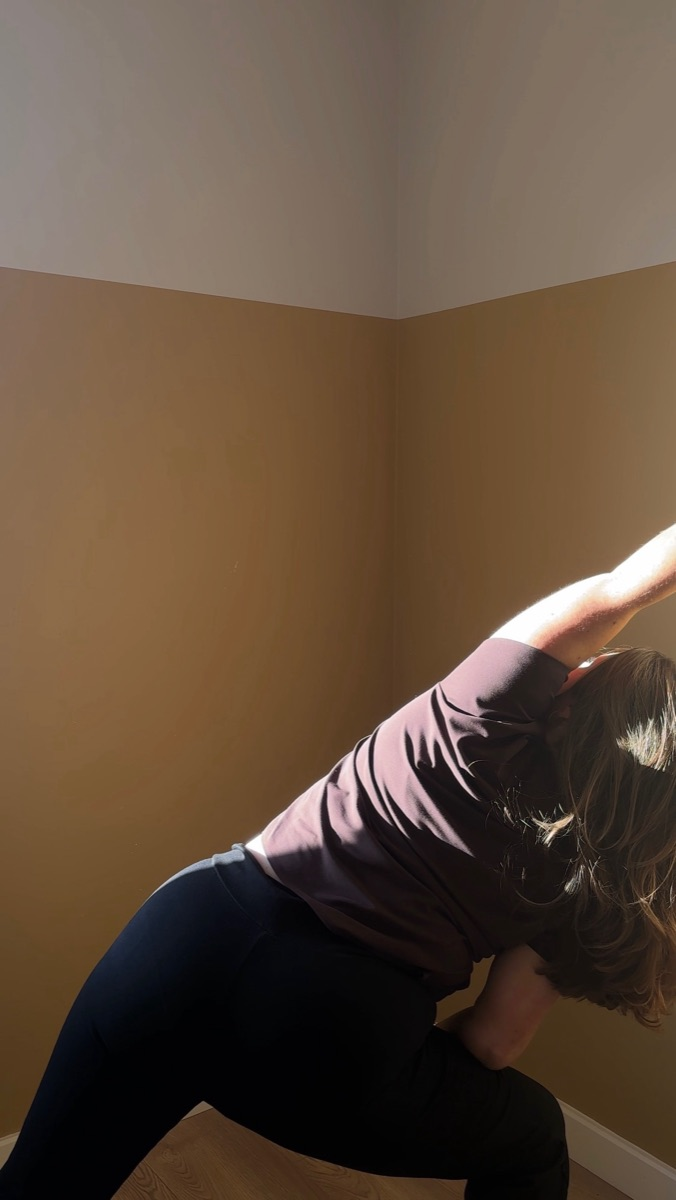
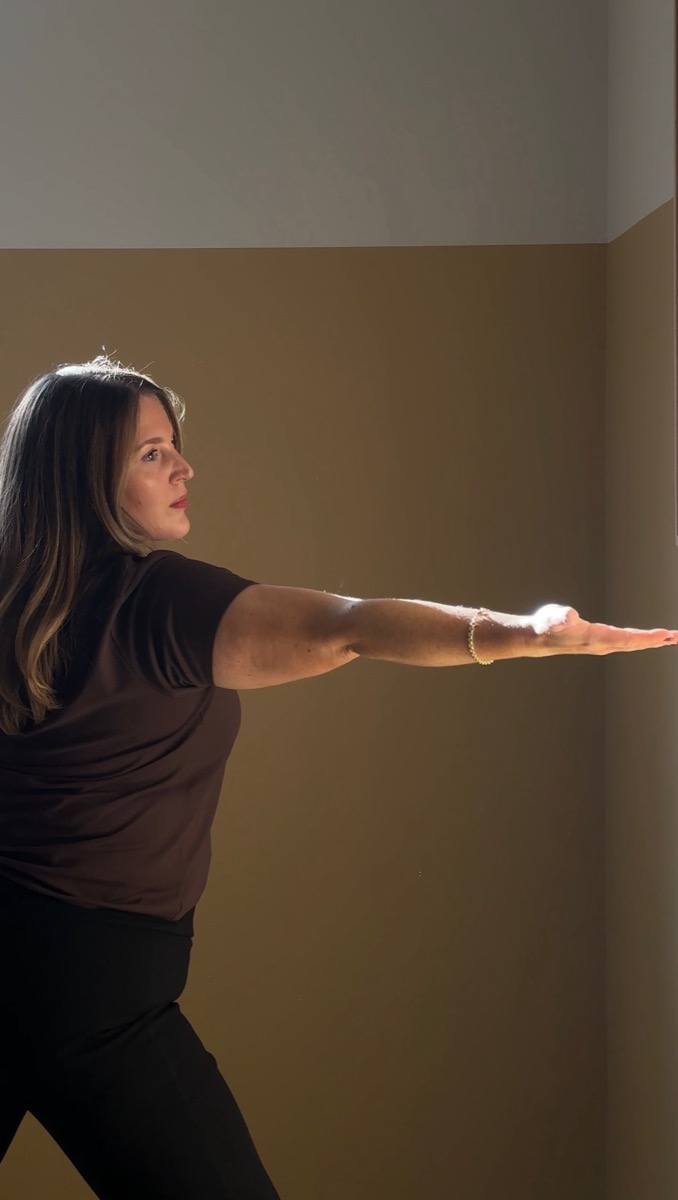
Refresh visual design: new fonts, mustard colour palette, fixed photo and video issues
- Swap awkward Slow Flow photo for a calmer, matching shot
- Even out class card copy and remove repeated "everything provided" phrasing
- Fix stretched mat-rollout video; add blurred-edge treatment to fill the frame
- Add Fraunces/Inter fonts and a warm mustard accent colour pulled from the photos
- Add testimonial carousel dots, favicon, and social preview images
- Improve nav link contrast for readability

diff --git a/css/styles.css b/css/styles.css
@@ -5,10 +5,12 @@
 }
 
 :root {
-  --ink: #2c2c2a;
-  --paper: #faf8f5;
+  --ink: #2e2519;
+  --paper: #faf7f2;
   --neutral: #cdbfae;
   --neutral-light: #f1ebe3;
+  --mustard: #8a6a35;
+  --mustard-dark: #6e5328;
   --max-width: 1080px;
 }
 
@@ -19,18 +21,22 @@ html {
 body {
   background-color: var(--paper);
   color: var(--ink);
-  font-family: -apple-system, BlinkMacSystemFont, 'Segoe UI', sans-serif;
+  font-family: 'Inter', -apple-system, BlinkMacSystemFont, 'Segoe UI', sans-serif;
   font-size: 1rem;
   line-height: 1.6;
 }
 
 h1, h2, h3 {
-  font-family: Georgia, 'Times New Roman', serif;
-  font-weight: normal;
+  font-family: 'Fraunces', Georgia, 'Times New Roman', serif;
+  font-weight: 500;
   letter-spacing: 0.01em;
 }
 
 a {
+  color: var(--mustard-dark);
+}
+
+a:hover {
   color: var(--ink);
 }
 
@@ -60,7 +66,7 @@ img {
 }
 
 .site-header .logo {
-  font-family: Georgia, 'Times New Roman', serif;
+  font-family: 'Fraunces', Georgia, 'Times New Roman', serif;
   font-size: 1.1rem;
   letter-spacing: 0.04em;
   text-decoration: none;
@@ -75,7 +81,7 @@ img {
   color: var(--ink);
   border-bottom: 1px solid currentColor;
   padding-bottom: 2px;
-  opacity: 0.6;
+  opacity: 0.75;
   transition: opacity 0.2s ease;
 }
 
@@ -169,12 +175,14 @@ img {
 }
 
 .btn-primary {
-  background-color: var(--ink);
+  background-color: var(--mustard-dark);
   color: var(--paper);
+  border-color: var(--mustard-dark);
 }
 
 .btn-primary:hover {
-  background-color: #4a4a46;
+  background-color: var(--ink);
+  border-color: var(--ink);
 }
 
 .btn-secondary {
@@ -252,18 +260,43 @@ section h2 {
 }
 
 .moment-media {
+  position: relative;
   width: 100%;
-  max-height: 70vh;
+  height: 70vh;
   overflow: hidden;
   display: flex;
   justify-content: center;
-  background-color: var(--ink);
+  background-color: var(--mustard-dark);
 }
 
-.moment-media video {
+.moment-media-bg {
+  position: absolute;
+  inset: 0;
   width: 100%;
-  max-height: 70vh;
+  height: 100%;
   object-fit: cover;
+  filter: blur(40px) brightness(0.85) saturate(1.2);
+  transform: scale(1.15);
+}
+
+.moment-media-fg {
+  position: relative;
+  height: 100%;
+  width: auto;
+  max-width: 100%;
+  object-fit: cover;
+  box-shadow: 0 0 60px rgba(0, 0, 0, 0.25);
+}
+
+@media (max-width: 600px) {
+  .moment-media-fg {
+    width: 100%;
+    height: 100%;
+  }
+
+  .moment-media-bg {
+    display: none;
+  }
 }
 
 .moment-caption {
@@ -272,7 +305,7 @@ section h2 {
 }
 
 .moment-caption p {
-  font-family: Georgia, 'Times New Roman', serif;
+  font-family: 'Fraunces', Georgia, 'Times New Roman', serif;
   font-size: 1.2rem;
   opacity: 0.8;
 }
@@ -318,6 +351,10 @@ section h2 {
   background-color: var(--neutral-light);
 }
 
+.testimonials h2 {
+  margin-bottom: 2rem;
+}
+
 .testimonial-track {
   display: flex;
   gap: 2rem;
@@ -361,6 +398,29 @@ section h2 {
   .testimonial {
     flex: 0 0 calc(50% - 1rem);
   }
+}
+
+.testimonial-dots {
+  display: flex;
+  justify-content: center;
+  gap: 0.6rem;
+  margin-top: 1.5rem;
+}
+
+.testimonial-dot {
+  width: 8px;
+  height: 8px;
+  padding: 0;
+  border: none;
+  border-radius: 50%;
+  background-color: var(--neutral);
+  cursor: pointer;
+  transition: background-color 0.2s ease, transform 0.2s ease;
+}
+
+.testimonial-dot.is-active {
+  background-color: var(--mustard-dark);
+  transform: scale(1.25);
 }
 
 /* Corporate-specific */

diff --git a/js/main.js b/js/main.js
@@ -1,0 +1,42 @@
+// Testimonial carousel dots
+(function () {
+  var track = document.querySelector('.testimonial-track');
+  var dots = document.querySelectorAll('.testimonial-dot');
+  if (!track || !dots.length) return;
+
+  dots.forEach(function (dot, i) {
+    dot.addEventListener('click', function () {
+      var card = track.children[i];
+      if (card) {
+        track.scrollTo({ left: card.offsetLeft - track.offsetLeft, behavior: 'smooth' });
+      }
+    });
+  });
+
+  var setActiveDot = function () {
+    var trackRect = track.getBoundingClientRect();
+    var closestIndex = 0;
+    var closestDistance = Infinity;
+    Array.prototype.forEach.call(track.children, function (card, i) {
+      var distance = Math.abs(card.getBoundingClientRect().left - trackRect.left);
+      if (distance < closestDistance) {
+        closestDistance = distance;
+        closestIndex = i;
+      }
+    });
+    dots.forEach(function (dot, i) {
+      dot.classList.toggle('is-active', i === closestIndex);
+    });
+  };
+
+  var ticking = false;
+  track.addEventListener('scroll', function () {
+    if (!ticking) {
+      window.requestAnimationFrame(function () {
+        setActiveDot();
+        ticking = false;
+      });
+      ticking = true;
+    }
+  });
+})();

diff --git a/index.html b/index.html
@@ -5,6 +5,17 @@
   <meta name="viewport" content="width=device-width, initial-scale=1.0">
   <title>Yoga with Ailbhe</title>
   <meta name="description" content="A space for people who need to slow down. Small, unhurried yoga classes and events in Dublin.">
+  <meta property="og:type" content="website">
+  <meta property="og:title" content="Yoga with Ailbhe">
+  <meta property="og:description" content="A space for people who need to slow down. Small, unhurried yoga classes and events in Dublin.">
+  <meta property="og:url" content="https://yogawithailbhe.ie/">
+  <meta property="og:image" content="https://yogawithailbhe.ie/assets/images/og-home.jpg">
+  <meta name="twitter:card" content="summary_large_image">
+  <link rel="icon" href="/favicon.ico" sizes="any">
+  <link rel="apple-touch-icon" href="/assets/images/apple-touch-icon.png">
+  <link rel="preconnect" href="https://fonts.googleapis.com">
+  <link rel="preconnect" href="https://fonts.gstatic.com" crossorigin>
+  <link href="https://fonts.googleapis.com/css2?family=Fraunces:ital,opsz,wght@0,9..144,400;0,9..144,500;1,9..144,400&family=Inter:wght@400;500&display=swap" rel="stylesheet">
   <link rel="stylesheet" href="css/styles.css">
 </head>
 <body>
@@ -43,18 +54,18 @@
               <img src="assets/images/class-dear-me.jpg" alt="Ailbhe reaching one arm upward, eyes closed, in a soft cream jumper." width="800" height="1067" loading="lazy">
             </div>
             <h3>Dear Me</h3>
-            <p>An evening to come back to yourself. Slow yoga, a letter written to yourself after an hour on the mat, and yoga nidra to close. Ten people, candles lit, everything provided. Runs a few times a year.</p>
+            <p>An evening to come back to yourself. Slow yoga, a letter written to yourself after an hour on the mat, and yoga nidra to close. Ten people, candles lit. Runs a few times a year.</p>
           </article>
           <article class="class-card">
             <div class="class-card-media">
               <img src="assets/images/class-into-the-flow.jpg" alt="Ailbhe in warrior pose, reaching upward with focus." width="800" height="1422" loading="lazy">
             </div>
             <h3>Into the Flow</h3>
-            <p>A four-week series for beginners or those coming back to the mat after a break. The setup of a normal studio can sometimes be overwhelming when you're starting from scratch — here we move together step by step, building your confidence to attend any studio class. Each week builds on the last until by week four, it flows. Small group, six people maximum, all equipment provided.</p>
+            <p>A four-week series for beginners or anyone coming back to the mat after a break. We move together, step by step, until by week four it flows. Small group, six people maximum.</p>
           </article>
           <article class="class-card">
             <div class="class-card-media">
-              <img src="assets/images/class-slow-flow.jpg" alt="Ailbhe mid-stretch in a side bend, warm light across the room." width="800" height="1422" loading="lazy">
+              <img src="assets/images/class-slow-flow.jpg" alt="Ailbhe standing tall with one arm extended, calm and grounded in warm light." width="800" height="1422" loading="lazy">
             </div>
             <h3>Slow Flow</h3>
             <p>A weekly drop-in class for all levels. Hatha-based, gentle, with breathwork and a proper rest at the end. This isn't about getting it right. It's about showing up.</p>
@@ -72,7 +83,10 @@
 
     <section class="moment">
       <div class="moment-media">
-        <video autoplay muted loop playsinline poster="assets/images/mat-rollout-poster.jpg">
+        <video class="moment-media-bg" autoplay muted loop playsinline aria-hidden="true" poster="assets/images/mat-rollout-poster.jpg">
+          <source src="assets/video/mat-rollout.mp4" type="video/mp4">
+        </video>
+        <video class="moment-media-fg" autoplay muted loop playsinline poster="assets/images/mat-rollout-poster.jpg">
           <source src="assets/video/mat-rollout.mp4" type="video/mp4">
         </video>
       </div>
@@ -101,6 +115,12 @@
             <p>"My first yoga class with Ailbhe was gentle and mindful, and exactly what I needed. Her calm guidance made me feel at ease from the start, and the peaceful atmosphere helped me slow down and breathe. I left feeling relaxed, grounded, and really glad I showed up."</p>
             <cite>— Nihan Gunay Yilmaz</cite>
           </article>
+        </div>
+        <div class="testimonial-dots" role="tablist" aria-label="Testimonial pages">
+          <button type="button" class="testimonial-dot is-active" aria-label="Testimonial 1"></button>
+          <button type="button" class="testimonial-dot" aria-label="Testimonial 2"></button>
+          <button type="button" class="testimonial-dot" aria-label="Testimonial 3"></button>
+          <button type="button" class="testimonial-dot" aria-label="Testimonial 4"></button>
         </div>
       </div>
     </section>
@@ -139,5 +159,7 @@
       </p>
     </div>
   </footer>
+
+  <script src="js/main.js"></script>
 </body>
 </html>

diff --git a/corporate/index.html b/corporate/index.html
@@ -5,6 +5,17 @@
   <meta name="viewport" content="width=device-width, initial-scale=1.0">
   <title>Corporate Yoga — Yoga with Ailbhe</title>
   <meta name="description" content="Bring genuinely useful wellness sessions to your team in Dublin, from one-hour slow flow classes to guided letter-writing and yoga nidra experiences.">
+  <meta property="og:type" content="website">
+  <meta property="og:title" content="Corporate Yoga — Yoga with Ailbhe">
+  <meta property="og:description" content="Bring genuinely useful wellness sessions to your team in Dublin, from one-hour slow flow classes to guided letter-writing and yoga nidra experiences.">
+  <meta property="og:url" content="https://yogawithailbhe.ie/corporate/">
+  <meta property="og:image" content="https://yogawithailbhe.ie/assets/images/og-corporate.jpg">
+  <meta name="twitter:card" content="summary_large_image">
+  <link rel="icon" href="/favicon.ico" sizes="any">
+  <link rel="apple-touch-icon" href="/assets/images/apple-touch-icon.png">
+  <link rel="preconnect" href="https://fonts.googleapis.com">
+  <link rel="preconnect" href="https://fonts.gstatic.com" crossorigin>
+  <link href="https://fonts.googleapis.com/css2?family=Fraunces:ital,opsz,wght@0,9..144,400;0,9..144,500;1,9..144,400&family=Inter:wght@400;500&display=swap" rel="stylesheet">
   <link rel="stylesheet" href="../css/styles.css">
 </head>
 <body>